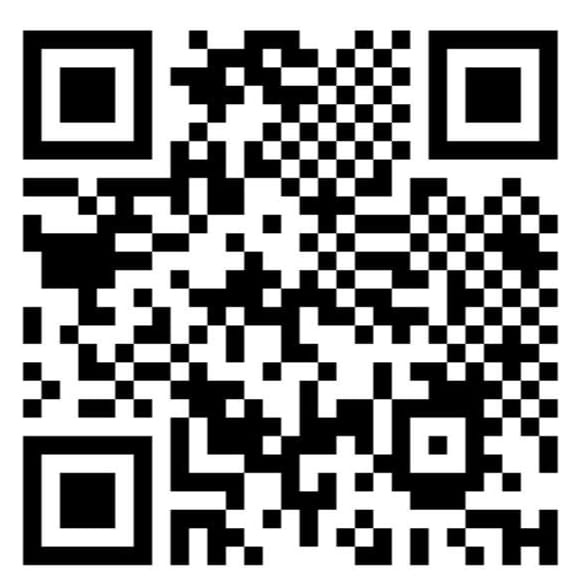
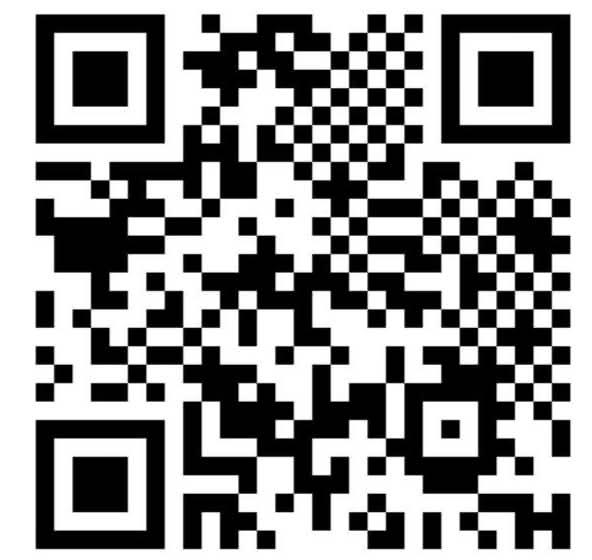
chore: update configuration and refactor deposit UI
- Relax ESLint rules for development flexibility
- Update dev server port to 3000
- Refactor DepositPage QR handling logic
- Add project metadata and environment variable documentation

diff --git a/src/pages/DepositPage.tsx b/src/pages/DepositPage.tsx
@@ -7,7 +7,7 @@ import { ArrowDownToLine, Upload, Check, Copy, ScanLine, QrCode, AlertTriangle, 
 import { toast } from 'sonner';
 import { motion, AnimatePresence } from 'framer-motion';
 import Tesseract from 'tesseract.js';
-import depositQr from '@/assets/deposit-qr.jpeg';
+import singleUnifiedQr from '@/assets/deposit-qr.jpeg';
 
 const USD_TO_PKR = 278.5;
 
@@ -51,7 +51,7 @@ const DepositPage = () => {
   const isCustom = selectedPlan !== null && plans[selectedPlan]?.isCustom;
   const amount = isCustom ? Number(customAmount) : plans[selectedPlan ?? -1]?.usd || 0;
   const pkrAmount = Math.round(amount * USD_TO_PKR);
-  const qrForAmount = amount > 0 ? depositQr : undefined;
+  const qrForAmount = amount > 0 ? singleUnifiedQr : null;
 
   useEffect(() => {
     if (!user) return;
@@ -343,15 +343,13 @@ const DepositPage = () => {
                 />
               </div>
             ) : (
-              <div className="flex flex-col items-center justify-center border-2 border-dashed border-border rounded-xl p-6 text-center">
-                <QrCode className="w-8 h-8 text-muted-foreground mb-2" />
-                <p className="text-sm text-muted-foreground">
-                  {isCustom
-                    ? 'QR code for custom amounts is coming soon.'
-                    : `QR code for ${amount} is coming soon.`}
+              <div className="flex flex-col items-center justify-center border-2 border-dashed border-border rounded-xl p-6 text-center bg-surface-2/40">
+                <QrCode className="w-10 h-10 text-muted-foreground/60 mb-2" />
+                <p className="text-sm font-semibold text-foreground">
+                  QR Code Expired / Removed
                 </p>
-                <p className="text-[11px] text-muted-foreground mt-1">
-                  Scan the QR code once it's added, then upload your receipt.
+                <p className="text-xs text-muted-foreground mt-1 max-w-xs">
+                  All previous expired QR codes have been removed. Provide the new QR code to attach it to all deposit tiers ($10 to Custom).
                 </p>
               </div>
             )}

diff --git a/eslint.config.js b/eslint.config.js
@@ -21,6 +21,10 @@ export default tseslint.config(
       ...reactHooks.configs.recommended.rules,
       "react-refresh/only-export-components": ["warn", { allowConstantExport: true }],
       "@typescript-eslint/no-unused-vars": "off",
+      "@typescript-eslint/no-explicit-any": "off",
+      "@typescript-eslint/no-empty-object-type": "off",
+      "@typescript-eslint/no-require-imports": "off",
+      "no-empty": "off",
     },
   },
 );

diff --git a/vite.config.ts b/vite.config.ts
@@ -5,7 +5,7 @@ import path from "path";
 export default defineConfig({
   server: {
     host: "0.0.0.0",
-    port: 5000,
+    port: 3000,
     allowedHosts: true,
     hmr: {
       overlay: false,
